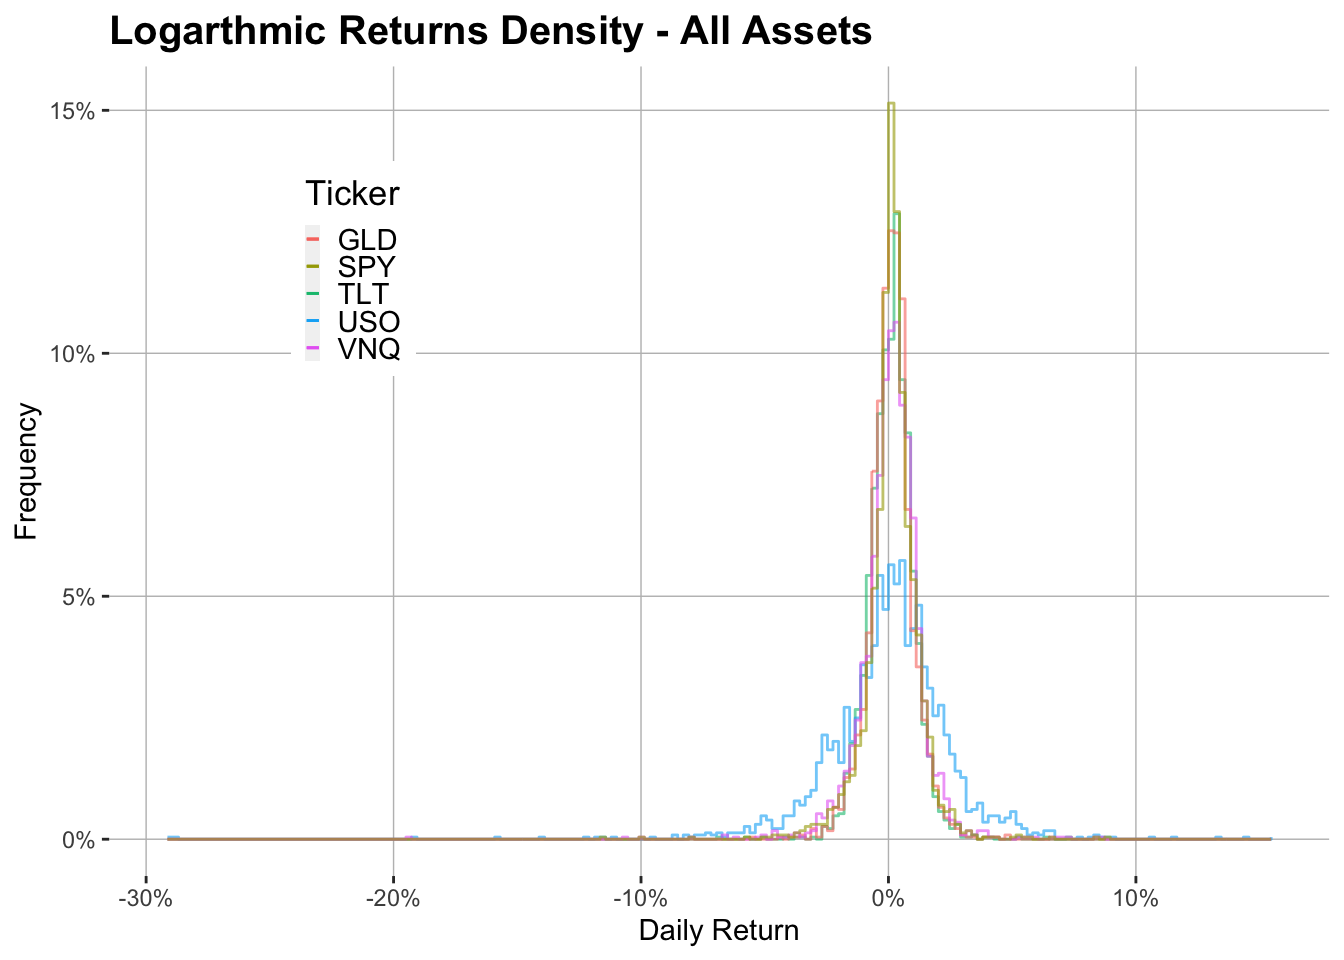
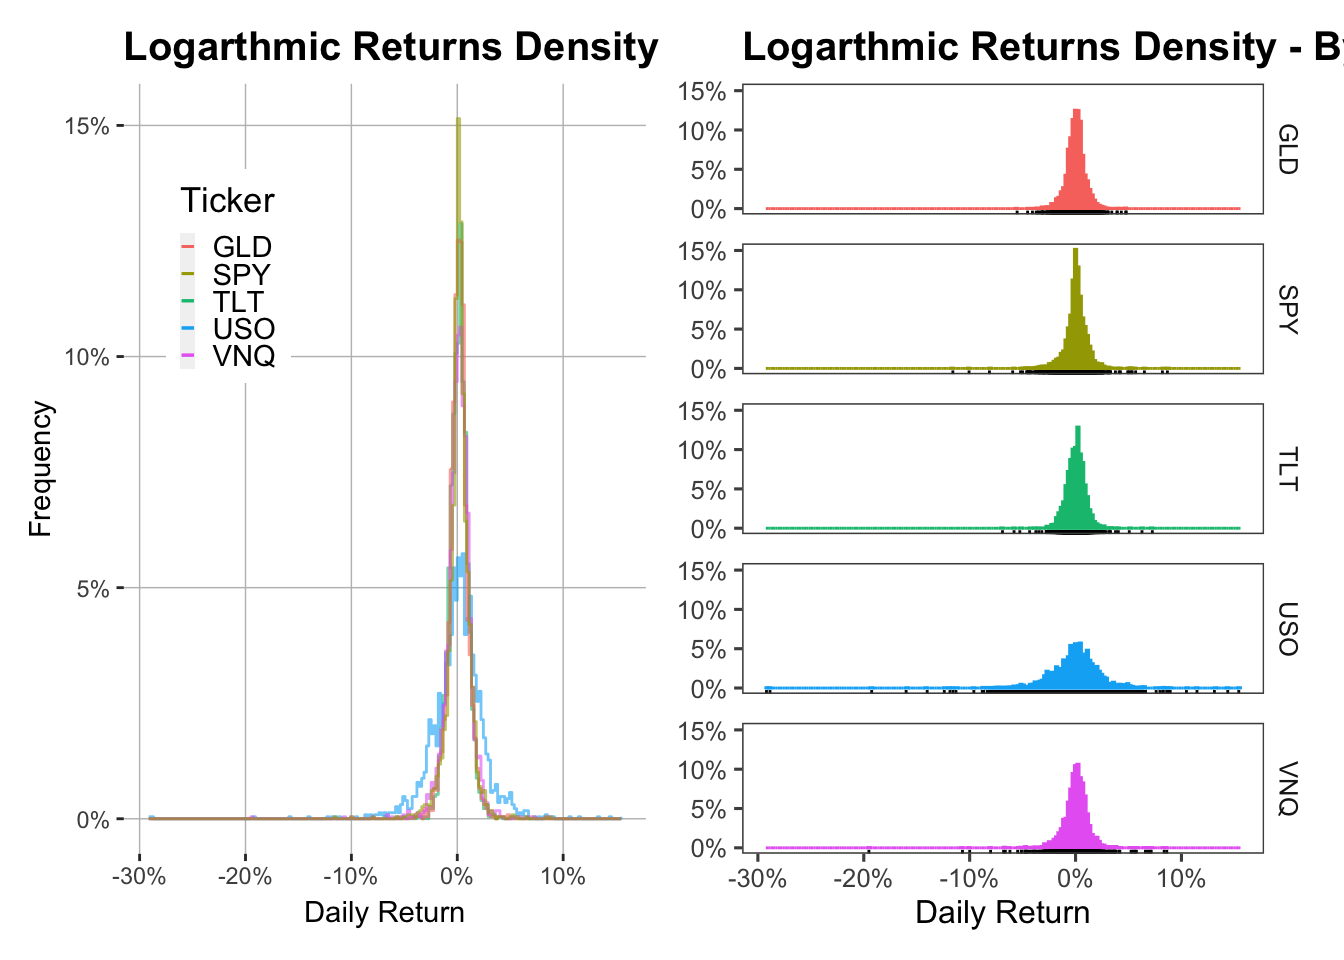
asset class cleanup

diff --git a/docs/AssetClasses.html b/docs/AssetClasses.html
@@ -6,9 +6,8 @@
 
 <meta name="viewport" content="width=device-width, initial-scale=1.0, user-scalable=yes">
 
-<meta name="dcterms.date" content="2023-02-28">
 
-<title>Luke Talman - Asset Classes</title>
+<title>Luke Talman - Return Properties by Asset Class</title>
 <style>
 code{white-space: pre-wrap;}
 span.smallcaps{font-variant: small-caps;}
@@ -117,12 +116,9 @@ ul.task-list li input[type="checkbox"] {
     <h2 id="toc-title">On this page</h2>
    
   <ul>
-  <li><a href="#returns-by-asset-class" id="toc-returns-by-asset-class" class="nav-link active" data-scroll-target="#returns-by-asset-class">Returns by Asset Class</a>
-  <ul class="collapse">
-  <li><a href="#summary-of-analysis" id="toc-summary-of-analysis" class="nav-link" data-scroll-target="#summary-of-analysis">Summary of Analysis</a>
+  <li><a href="#summary-of-analysis" id="toc-summary-of-analysis" class="nav-link active" data-scroll-target="#summary-of-analysis">Summary of Analysis</a>
   <ul class="collapse">
   <li><a href="#analysis-window-20140101---20230131" id="toc-analysis-window-20140101---20230131" class="nav-link" data-scroll-target="#analysis-window-20140101---20230131">Analysis Window: 2014/01/01 - 2023/01/31</a></li>
-  </ul></li>
   </ul></li>
   </ul>
 </nav>
@@ -132,7 +128,7 @@ ul.task-list li input[type="checkbox"] {
 
 <header id="title-block-header" class="quarto-title-block default">
 <div class="quarto-title">
-<h1 class="title">Asset Classes</h1>
+<h1 class="title">Return Properties by Asset Class</h1>
 </div>
 
 
@@ -140,12 +136,6 @@ ul.task-list li input[type="checkbox"] {
 <div class="quarto-title-meta">
 
     
-    <div>
-    <div class="quarto-title-meta-heading">Published</div>
-    <div class="quarto-title-meta-contents">
-      <p class="date">February 28, 2023</p>
-    </div>
-  </div>
   
     
   </div>
@@ -153,8 +143,12 @@ ul.task-list li input[type="checkbox"] {
 
 </header>
 
-<section id="returns-by-asset-class" class="level1">
-<h1>Returns by Asset Class</h1>
+<section id="luke-talman" class="level4">
+<h4 class="anchored" data-anchor-id="luke-talman">Luke Talman</h4>
+</section>
+<section id="section" class="level4">
+<h4 class="anchored" data-anchor-id="section">2023-02-28</h4>
+</section>
 <section id="summary-of-analysis" class="level2">
 <h2 class="anchored" data-anchor-id="summary-of-analysis">Summary of Analysis</h2>
 <p>Following is a summary of the analysis on select asset class returns on the NYSE and NASDAQ, the two largest stock exchanges globally. Representing returns for each asset class is a specific Exchange Traded Fund (ETF) that allows investors to gain exposure to various asset prices without physically possessing underlying asset.</p>
@@ -187,10 +181,7 @@ ul.task-list li input[type="checkbox"] {
 <p><br></p>
 <div class="cell">
 <div class="cell-output-display">
-<p><img src="AssetClasses_files/figure-html/unnamed-chunk-2-1.png" class="img-fluid" style="width:50.0%"></p>
-</div>
-<div class="cell-output-display">
-<p><img src="AssetClasses_files/figure-html/unnamed-chunk-2-2.png" class="img-fluid" style="width:50.0%"></p>
+<p><img src="AssetClasses_files/figure-html/unnamed-chunk-2-1.png" class="img-fluid" width="672"></p>
 </div>
 </div>
 <p><br></p>
@@ -222,15 +213,15 @@ ul.task-list li input[type="checkbox"] {
 <td style="text-align: left;">SPY</td>
 <td style="text-align: left;">0.041575%</td>
 <td style="text-align: left;">1.134011%</td>
-<td style="text-align: right;">-0.8134746</td>
-<td style="text-align: right;">16.898902</td>
+<td style="text-align: right;">-0.8134706</td>
+<td style="text-align: right;">16.898896</td>
 </tr>
 <tr class="odd">
 <td style="text-align: left;">TLT</td>
 <td style="text-align: left;">0.010795%</td>
 <td style="text-align: left;">0.924014%</td>
-<td style="text-align: right;">-0.0014229</td>
-<td style="text-align: right;">8.772180</td>
+<td style="text-align: right;">-0.0014243</td>
+<td style="text-align: right;">8.772105</td>
 </tr>
 <tr class="even">
 <td style="text-align: left;">USO</td>
@@ -243,8 +234,8 @@ ul.task-list li input[type="checkbox"] {
 <td style="text-align: left;">VNQ</td>
 <td style="text-align: left;">0.029684%</td>
 <td style="text-align: left;">1.309078%</td>
-<td style="text-align: right;">-1.8093719</td>
-<td style="text-align: right;">32.620988</td>
+<td style="text-align: right;">-1.8093733</td>
+<td style="text-align: right;">32.620972</td>
 </tr>
 </tbody>
 </table>
@@ -295,13 +286,13 @@ ul.task-list li input[type="checkbox"] {
 </tr>
 <tr class="even">
 <td style="text-align: left;">SPY</td>
-<td style="text-align: right;">18636.1502</td>
+<td style="text-align: right;">18636.1301</td>
 <td style="text-align: right;">0</td>
 <td style="text-align: left;">Jarque Bera Test</td>
 </tr>
 <tr class="odd">
 <td style="text-align: left;">TLT</td>
-<td style="text-align: right;">3170.7696</td>
+<td style="text-align: right;">3170.6872</td>
 <td style="text-align: right;">0</td>
 <td style="text-align: left;">Jarque Bera Test</td>
 </tr>
@@ -313,7 +304,7 @@ ul.task-list li input[type="checkbox"] {
 </tr>
 <tr class="odd">
 <td style="text-align: left;">VNQ</td>
-<td style="text-align: right;">84745.7471</td>
+<td style="text-align: right;">84745.6583</td>
 <td style="text-align: right;">0</td>
 <td style="text-align: left;">Jarque Bera Test</td>
 </tr>
@@ -334,8 +325,6 @@ ul.task-list li input[type="checkbox"] {
 <th style="text-align: left;" data-quarto-table-cell-role="th">Ticker</th>
 <th style="text-align: right;" data-quarto-table-cell-role="th">Statistic</th>
 <th style="text-align: right;" data-quarto-table-cell-role="th">P.Value</th>
-<th style="text-align: left;" data-quarto-table-cell-role="th">Method</th>
-<th style="text-align: left;" data-quarto-table-cell-role="th">Alternative</th>
 </tr>
 </thead>
 <tbody>
@@ -343,8 +332,6 @@ ul.task-list li input[type="checkbox"] {
 <td style="text-align: left;">SPY</td>
 <td style="text-align: right;">0.4820143</td>
 <td style="text-align: right;">0</td>
-<td style="text-align: left;">Asymptotic one-sample Kolmogorov-Smirnov Test</td>
-<td style="text-align: left;">two-sided</td>
 </tr>
 </tbody>
 </table>
@@ -356,7 +343,6 @@ ul.task-list li input[type="checkbox"] {
 <p>Complementing the Jarque Bera Test, the Kolmogorov-Smirnov Test measures the probability of whether or not a sample (in this case, US equities) has normally distributed returns. The test failed to find a significant statistic, meaning that equity returns were not normally distributed in the analysis window. Again, this has implications for pricing models that assume logarithmic equity returns are normally distributed.</p>
 
 
-</section>
 </section>
 </section>
 
